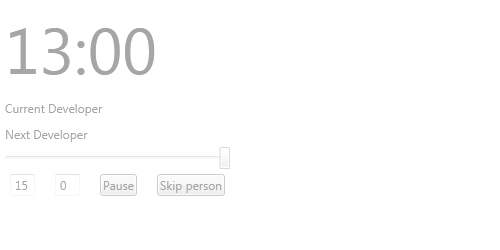
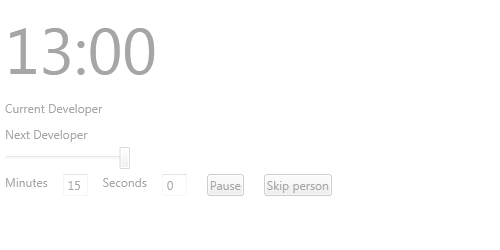
Added Minutes and Seconds labels

diff --git a/DeveloperTimer/MainWindow.xaml b/DeveloperTimer/MainWindow.xaml
@@ -57,12 +57,16 @@
         <StackPanel Orientation="Vertical" Grid.Row="1" Grid.Column="1" >
             <Label Content="Current Developer" Name="lblCurrentDeveloper" />
             <Label Content="Next Developer" Name="lblNextDeveloperName" />
-            <Slider x:Name="sOpacitySlider" Width="230" TickFrequency=".01" IsSnapToTickEnabled="true"
+            <Grid>
+            <Slider x:Name="sOpacitySlider" Width="130" TickFrequency=".01" IsSnapToTickEnabled="true"
                     TickPlacement="none" Value="{Binding Path=From, Mode=Default, UpdateSourceTrigger=PropertyChanged}"
                     Maximum="1" Minimum="0" ValueChanged="sOpacitySlider_ValueChanged" 
                     HorizontalAlignment="Left"/>
+            </Grid>
             <StackPanel Orientation="Horizontal">
+                <Label>Minutes </Label>
                 <TextBox Name="txtMinutes" Text="0" Width="25" />
+                <Label>Seconds </Label>
                 <TextBox Name="txtSeconds" Text="0" Width="25"  />
                 <Grid Name="gridRunningButtons">
                     <Grid.ColumnDefinitions>
